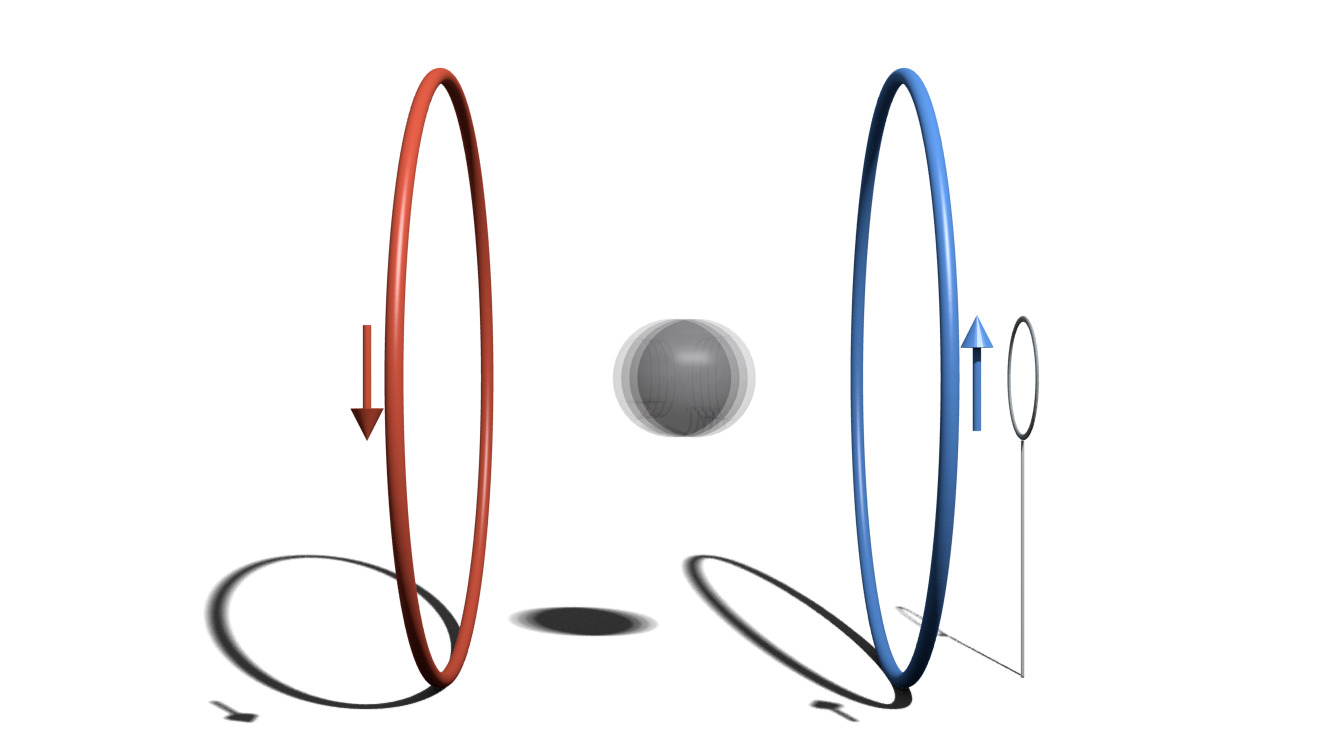
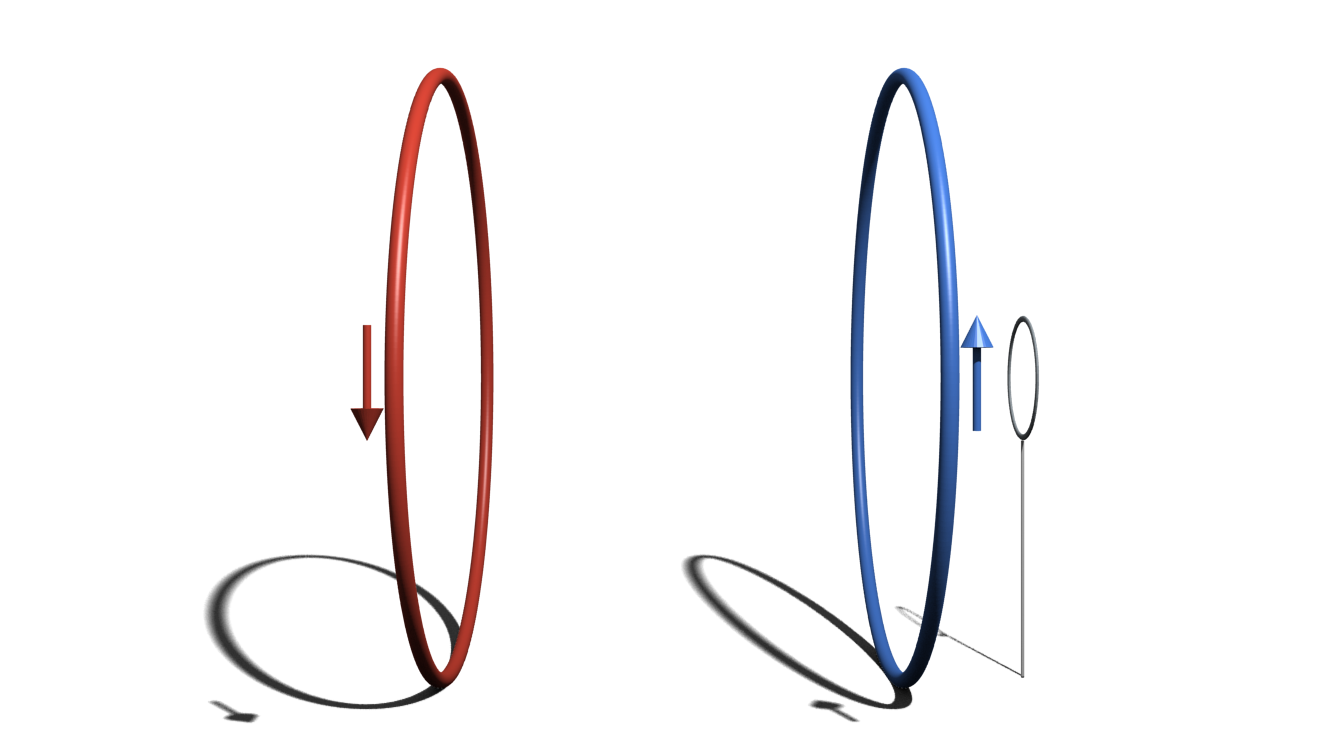
magnetomech

Changed region(s): [[0.4375, 0.3955, 0.5625, 0.578], [0.375, 0.791, 0.5, 0.8519]]

diff --git a/assets/css/main.css b/assets/css/main.css
@@ -1,82 +1,195 @@
 body {
-  background: -webkit-radial-gradient(#f0f0f0, #bebebe);
-  background: -moz-radial-gradient(#f0f0f0, #bebebe);
-  background: -o-radial-gradient(#f0f0f0, #bebebe);
-  background: -ms-radial-gradient(#f0f0f0, #bebebe);
-  background: radial-gradient(#f0f0f0, #bebebe);
-  min-height: 740px;
-  font-family: "Open Sans", sans-serif;
-  font-size: 32px;
+	background: -webkit-radial-gradient(#f0f0f0, #bebebe);
+	background: -moz-radial-gradient(#f0f0f0, #bebebe);
+	background: -o-radial-gradient(#f0f0f0, #bebebe);
+	background: -ms-radial-gradient(#f0f0f0, #bebebe);
+	background: radial-gradient(#f0f0f0, #bebebe);
+	min-height: 740px;
+	font-family: "Open Sans", sans-serif;
+	font-size: 32px;
 }
-h1,
-h2 {
-  font-weight: 300;
+
+h1,h2 {
+	font-weight: 300;
 }
+
 a {
-  color: #005580;
-  text-decoration: inherit;
+	color: #005580;
+	text-decoration: inherit;
 }
+
 a:hover {
-  text-decoration: underline;
+	text-decoration: underline;
 }
+
 b {
-  font-weight: 600;
+	font-weight: 600;
 }
+
 .centered {
-  text-align: center;
+	text-align: center;
 }
+
 .centered-vertical {
-  margin-top: 230px;
+	margin-top: 230px;
 }
+
 .pull-right {
-  float: right;
+	float: right;
 }
+
 .step {
-  width: 900px;
-  height: 700px;
-  padding: 40px;
-  line-height: 1.5;
-  opacity: 0.3;
-  transition: opacity 1s;
-  box-sizing: border-box;
+	width: 900px;
+	height: 700px;
+	padding: 40px;
+	line-height: 1.5;
+	-ms-filter: "progid:DXImageTransform.Microsoft.Alpha(Opacity=30)";
+	filter: alpha(opacity=30);
+	opacity: 0.3;
+
+	-webkit-transition: opacity 1s;
+	-moz-transition: opacity 1s;
+	-o-transition: opacity 1s;
+	-ms-transition: opacity 1s;
+	transition: opacity 1s;
+
+	-webkit-box-sizing: border-box;
+	-moz-box-sizing: border-box;
+	-ms-box-sizing: border-box;
+	box-sizing: border-box;
 }
+
 .step.active {
-  opacity: 1;
+	-ms-filter: "progid:DXImageTransform.Microsoft.Alpha(Opacity=100)";
+	filter: alpha(opacity=100);
+	opacity: 1;
 }
+
 .slide {
-  padding: 40px 60px;
-  background-color: white;
-  border: 1px solid rgba(0, 0, 0, 0.3);
-  border-radius: 10px;
-  color: #666666;
+	padding: 40px 60px;
+	background-color: white;
+	border: 1px solid rgba(0, 0, 0, 0.3);
+	border-radius: 10px;
+	color: #666666;
 }
+
 .invisible {
-  display: none;
+	display: none;
 }
+
 .visible-present {
-  opacity: 0 !important;
+	display: none;
 }
+
 .visible-present.present {
-  opacity: 1 !important;
+	display: inherit;
 }
+
 .highlight {
-  background-color: rgba(200, 200, 200, 0.8);
-  border-radius: 10px;
-  padding: 10px;
+	background-color: rgba(200, 200, 200, 0.8);
+	border-radius: 10px;
+	padding: 10px;
 }
+
 #intro-experiments img {
-  width: 200px;
+	width: 200px;
 }
+
 .exp-image {
-  text-align: center;
+	text-align: center;
 }
-.exp-image img {
-  height: 75%;
+
+.exp-image img,.exp-image video {
+	height: 75%;
 }
+
+@keyframes "magnetomech-oscillate" {
+ from {
+    -webkit-transform: translate(-40px, 0);
+   	-moz-transform: translate(-40px, 0);
+   	-o-transform: translate(-40px, 0);
+   	-ms-transform: translate(-40px, 0);
+   	transform: translate(-40px, 0);
+ }
+ to {
+    -webkit-transform: translate(0px, 0);
+   	-moz-transform: translate(0px, 0);
+   	-o-transform: translate(0px, 0);
+   	-ms-transform: translate(0px, 0);
+   	transform: translate(0px, 0);
+ }
+
+}
+
+@-moz-keyframes magnetomech-oscillate {
+ from {
+   -moz-transform: translate(-40px, 0);
+   transform: translate(-40px, 0);
+ }
+ to {
+   -moz-transform: translate(0px, 0);
+   transform: translate(0px, 0);
+ }
+
+}
+
+@-webkit-keyframes "magnetomech-oscillate" {
+ from {
+   -webkit-transform: translate(-40px, 0);
+   transform: translate(-40px, 0);
+ }
+ to {
+   -webkit-transform: translate(0px, 0);
+   transform: translate(0px, 0);
+ }
+
+}
+
+@-ms-keyframes "magnetomech-oscillate" {
+ from {
+   -ms-transform: translate(-40px, 0);
+   transform: translate(-40px, 0);
+ }
+ to {
+   -ms-transform: translate(0px, 0);
+   transform: translate(0px, 0);
+ }
+
+}
+
+@-o-keyframes "magnetomech-oscillate" {
+ from {
+   -o-transform: translate(-40px, 0);
+   transform: translate(-40px, 0);
+ }
+ to {
+   -o-transform: translate(0px, 0);
+   transform: translate(0px, 0);
+ }
+
+}
+
+.magnetomech-ball {
+	position: absolute;
+	top: 0;
+	left: 0px;
+
+	-webkit-animation: magnetomech-oscillate 0.2s ease-in-out infinite alternate;
+	-moz-animation: magnetomech-oscillate 0.2s ease-in-out infinite alternate;
+	-ms-animation: magnetomech-oscillate 0.2s ease-in-out infinite alternate;
+	-o-animation: magnetomech-oscillate 0.2s ease-in-out infinite alternate;
+	animation: magnetomech-oscillate 0.2s ease-in-out infinite alternate;
+}
+
 .impress-on-intro-experiments .exp-image {
-  opacity: 1;
+	-ms-filter: "progid:DXImageTransform.Microsoft.Alpha(Opacity=100)";
+	filter: alpha(opacity=100);
+	opacity: 1;
 }
+
 .impress-on-overview .step {
-  opacity: 1;
-  cursor: pointer;
+	-ms-filter: "progid:DXImageTransform.Microsoft.Alpha(Opacity=100)";
+	filter: alpha(opacity=100);
+	opacity: 1;
+	cursor: pointer;
 }

diff --git a/assets/less/main.css.less b/assets/less/main.css.less
@@ -4,10 +4,6 @@
 @slide-padding-horizontal: 60px;
 
 body {
-  background: -webkit-radial-gradient(rgb(240, 240, 240), rgb(190, 190, 190));
-  background: -moz-radial-gradient(rgb(240, 240, 240), rgb(190, 190, 190));
-  background: -o-radial-gradient(rgb(240, 240, 240), rgb(190, 190, 190));
-  background: -ms-radial-gradient(rgb(240, 240, 240), rgb(190, 190, 190));
   background: radial-gradient(rgb(240, 240, 240), rgb(190, 190, 190));
   min-height: 740px;
   font-family: "Open Sans", sans-serif;
@@ -69,10 +65,10 @@ b {
 
 // !important used so that they remain invisible on overview step
 .visible-present {
-  opacity: 0 !important;
+  display: none;
 
   &.present {
-    opacity: 1 !important;
+    display: inherit;
   }
 }
 
@@ -96,9 +92,26 @@ b {
 .exp-image {
   text-align: center;
 
-  img {
+  img, video {
     height: 75%;
   }
+}
+
+.magnetomech-setup {}
+
+@keyframes magnetomech-oscillate {
+  from {
+    transform:translate(-40px, 0);
+  } to {
+    transform:translate(0px, 0);
+  }
+}
+
+.magnetomech-ball {
+  position: absolute;
+  top: 0;
+  left: 0px;
+  animation: magnetomech-oscillate 0.2s ease-in-out infinite alternate;
 }
 
 .impress-on-intro-experiments .exp-image { opacity: 1; }

diff --git a/index.html b/index.html
@@ -51,7 +51,9 @@
     </div>
 
     <div class="step exp-image" data-x="1000" data-y="200" data-scale="0.3">
-      <img src="assets/images/magnetomech.png">
+      <img class="magnetomech-setup" src="assets/images/magnetomech.png">
+      <img class="magnetomech-ball" src="assets/images/magnetomech_ball.png">
+      <!-- <video src="assets/movs/magnetomech.ogg" loop></video> -->
       <h1>Opto- &amp; Magnetomechanics</h1>
     </div>
 
@@ -61,8 +63,10 @@
 
     <div id="overview" class="step invisible" data-scale="5"></div>
   </div>
-
+  
+  <script src="//ajax.googleapis.com/ajax/libs/jquery/2.0.0/jquery.min.js"></script>
   <script src="assets/js/impress.js"></script>
+  <script src="assets/js/main.js"></script>
   <script>impress().init();</script>
 </body>
 </html>

diff --git a/assets/js/main.js b/assets/js/main.js
@@ -1,0 +1,6 @@
+// Generated by CoffeeScript 1.3.3
+(function() {
+
+
+
+}).call(this);
